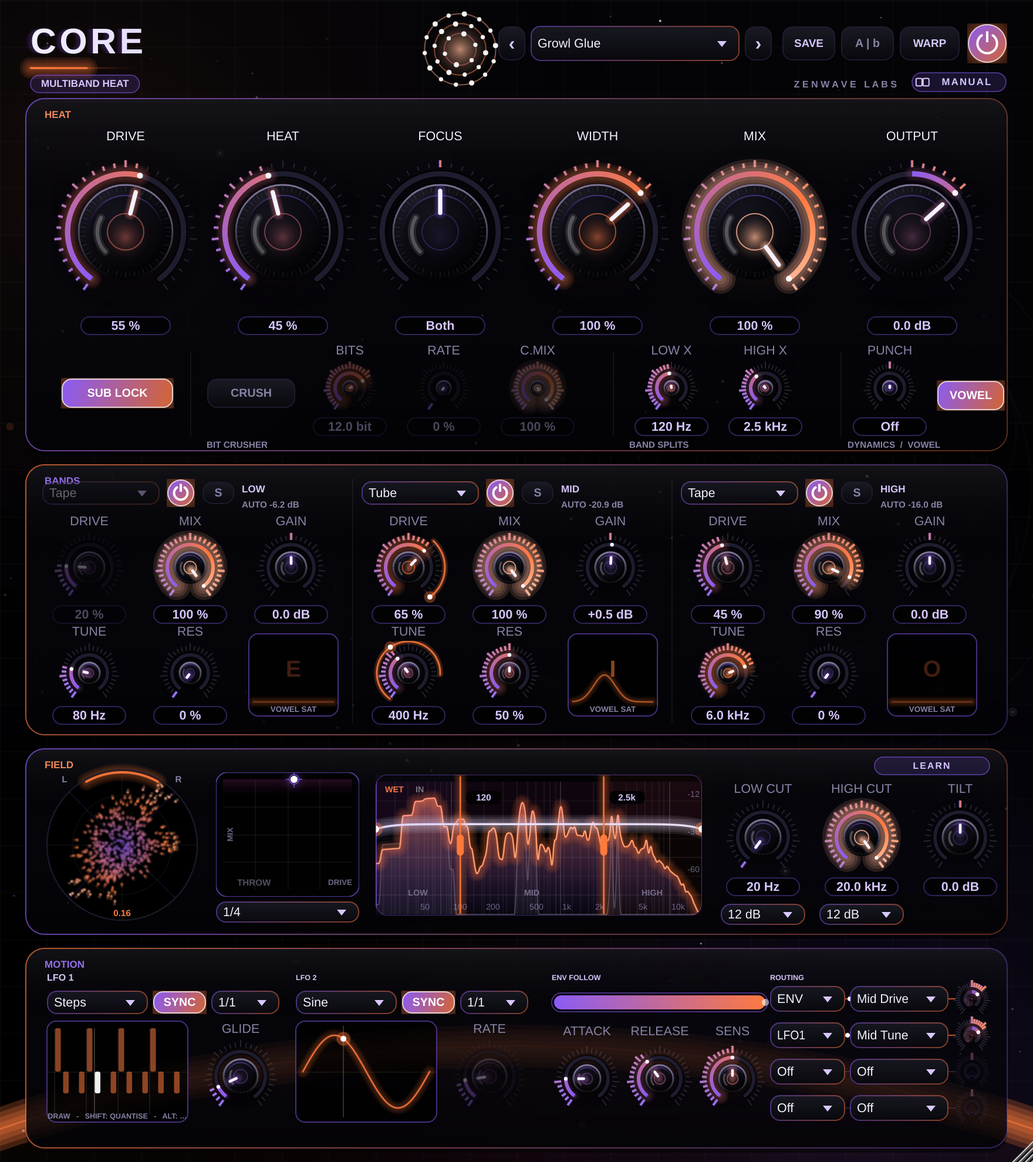
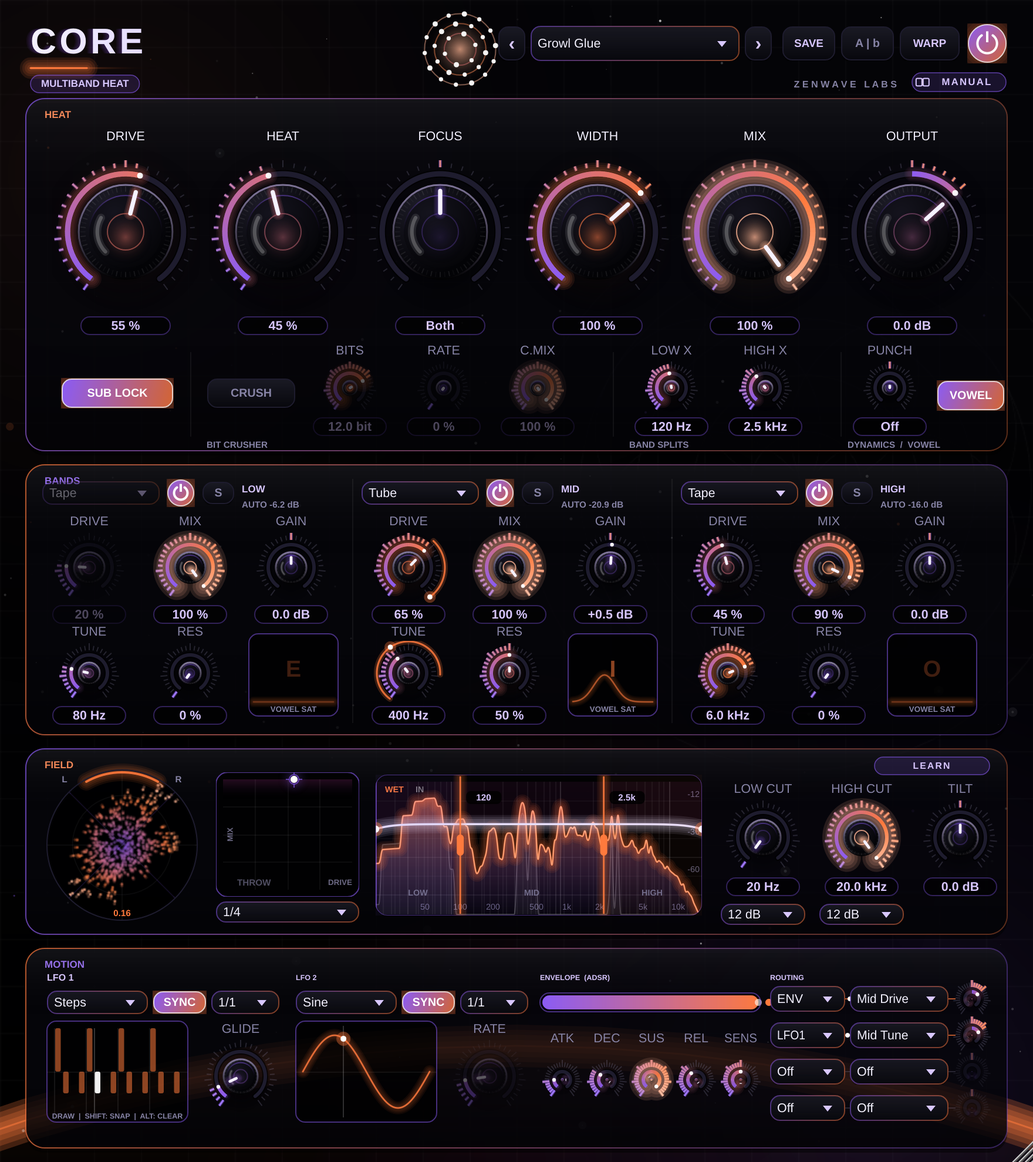
Independent step lanes per LFO; envelope becomes an input-triggered ADSR
- Each LFO now owns its 16-step lane and GLIDE (LFO 1 defaults to a 4-on-the-floor pattern,
  LFO 2 to a ramp) - set both to Steps and they play different patterns
- Envelope source: fast follower + SENS opens a gate; ATK -> DEC -> SUS while the input plays,
  REL when it stops; retriggers on new hits; gate indicator beside the bar. SUS 100 % = follower feel
- Saw LFOs de-clicked at the wrap (3 ms) - caught by Core QA with the new targets
- Manual + tooltips; QA pass on all three

Claude-Session: https://claude.ai/code/session_017QkTniK1NEuAZXzt6zeDH9

Changed region(s): [[0.5312, 0.8318, 0.75, 0.9551]]

diff --git a/libs/zenwave_ui/include/zenwave_ui/Modulation.h b/libs/zenwave_ui/include/zenwave_ui/Modulation.h
@@ -20,6 +20,8 @@ struct ModIDs
     static juce::String lfoDiv  (int i) { return "lfo" + juce::String(i + 1) + "div"; }
     static juce::String lfoRate (int i) { return "lfo" + juce::String(i + 1) + "rate"; }
     static constexpr auto envAttack  = "envattack";
+    static constexpr auto envDecay   = "envdecay";
+    static constexpr auto envSustain = "envsustain";
     static constexpr auto envRelease = "envrelease";
     static constexpr auto envSens    = "envsens";
     static juce::String slotSrc(int i) { return "mod" + juce::String(i + 1) + "src"; }
@@ -28,8 +30,8 @@ struct ModIDs
 
     static juce::StringArray shapeNames() { return { "Sine", "Triangle", "Saw Up", "Saw Down", "Square", "Random", "Drift", "Steps" }; }
     static constexpr int kSteps = 16;
-    static juce::String step(int i) { return "seqstep" + juce::String(i + 1); }
-    static constexpr auto seqGlide = "seqglide";
+    static juce::String step(int lfo, int i) { return "lfo" + juce::String(lfo + 1) + "step" + juce::String(i + 1); }
+    static juce::String glide(int lfo) { return "lfo" + juce::String(lfo + 1) + "glide"; }
     static juce::StringArray sourceNames() { return { "Off", "LFO1", "LFO2", "ENV" }; }
 };
 
@@ -53,15 +55,21 @@ inline void addModParams(std::vector<std::unique_ptr<juce::RangedAudioParameter>
     auto ms = [](float v, int) { return v < 100.0f ? juce::String(v, 1) + " ms" : juce::String(juce::roundToInt(v)) + " ms"; };
     params.push_back(std::make_unique<P>(juce::ParameterID{ ModIDs::envAttack, 1 }, "Env Attack", Rng{ 0.5f, 500.0f, 0.1f, 0.4f }, 8.0f, juce::AudioParameterFloatAttributes().withStringFromValueFunction(ms)));
     params.push_back(std::make_unique<P>(juce::ParameterID{ ModIDs::envRelease, 1 }, "Env Release", Rng{ 10.0f, 2000.0f, 0.1f, 0.4f }, 180.0f, juce::AudioParameterFloatAttributes().withStringFromValueFunction(ms)));
+    params.push_back(std::make_unique<P>(juce::ParameterID{ ModIDs::envDecay, 1 }, "Env Decay", Rng{ 5.0f, 2000.0f, 0.1f, 0.4f }, 120.0f, juce::AudioParameterFloatAttributes().withStringFromValueFunction(ms)));
+    params.push_back(std::make_unique<P>(juce::ParameterID{ ModIDs::envSustain, 1 }, "Env Sustain", Rng{ 0.0f, 1.0f, 0.001f }, 1.0f,
+        juce::AudioParameterFloatAttributes().withStringFromValueFunction([](float v, int) { return juce::String(juce::roundToInt(v * 100)) + " %"; })));
     params.push_back(std::make_unique<P>(juce::ParameterID{ ModIDs::envSens, 1 }, "Env Sensitivity", Rng{ 0.0f, 1.0f, 0.001f }, 0.5f,
         juce::AudioParameterFloatAttributes().withStringFromValueFunction([](float v, int) { return juce::String(juce::roundToInt(v * 100)) + " %"; })));
-    // 16-step lane shared by any LFO set to "Steps" (one cycle = the LFO's division)
-    for (int i = 0; i < ModIDs::kSteps; ++i)
-        params.push_back(std::make_unique<P>(juce::ParameterID{ ModIDs::step(i), 1 }, "Step " + juce::String(i + 1), Rng{ -1.0f, 1.0f, 0.001f },
-            (i % 4 == 0) ? 1.0f : (i % 2 == 0 ? 0.0f : -0.5f),
-            juce::AudioParameterFloatAttributes().withStringFromValueFunction([](float v, int) { return (v > 0 ? "+" : "") + juce::String(juce::roundToInt(v * 100)) + " %"; })));
-    params.push_back(std::make_unique<P>(juce::ParameterID{ ModIDs::seqGlide, 1 }, "Step Glide", Rng{ 0.0f, 1.0f, 0.001f }, 0.1f,
-        juce::AudioParameterFloatAttributes().withStringFromValueFunction([](float v, int) { return juce::String(juce::roundToInt(v * 100)) + " %"; })));
+    // Each LFO has its own 16-step lane for the "Steps" shape (one pass = the LFO's division)
+    for (int l = 0; l < 2; ++l)
+    {
+        for (int i = 0; i < ModIDs::kSteps; ++i)
+            params.push_back(std::make_unique<P>(juce::ParameterID{ ModIDs::step(l, i), 1 }, "LFO " + juce::String(l + 1) + " Step " + juce::String(i + 1), Rng{ -1.0f, 1.0f, 0.001f },
+                l == 0 ? ((i % 4 == 0) ? 1.0f : (i % 2 == 0 ? 0.0f : -0.5f)) : (1.0f - 2.0f * float(i) / 15.0f),
+                juce::AudioParameterFloatAttributes().withStringFromValueFunction([](float v, int) { return (v > 0 ? "+" : "") + juce::String(juce::roundToInt(v * 100)) + " %"; })));
+        params.push_back(std::make_unique<P>(juce::ParameterID{ ModIDs::glide(l), 1 }, "LFO " + juce::String(l + 1) + " Glide", Rng{ 0.0f, 1.0f, 0.001f }, 0.1f,
+            juce::AudioParameterFloatAttributes().withStringFromValueFunction([](float v, int) { return juce::String(juce::roundToInt(v * 100)) + " %"; })));
+    }
     for (int i = 0; i < ModIDs::kSlots; ++i)
     {
         const auto n = "Mod " + juce::String(i + 1) + " ";
@@ -77,7 +85,7 @@ inline void resetModParams(juce::AudioProcessorValueTreeState& apvts)
 {
     for (auto* p : apvts.processor.getParameters())
         if (auto* rp = dynamic_cast<juce::RangedAudioParameter*>(p))
-            if (rp->paramID.startsWith("lfo") || rp->paramID.startsWith("env") || rp->paramID.startsWith("mod") || rp->paramID.startsWith("seq"))
+            if (rp->paramID.startsWith("lfo") || rp->paramID.startsWith("env") || rp->paramID.startsWith("mod"))
             { rp->beginChangeGesture(); rp->setValueNotifyingHost(rp->getDefaultValue()); rp->endChangeGesture(); }
 }
 // Set one slot of the matrix (used by factory presets that ship with motion)
@@ -108,9 +116,14 @@ public:
             lfo[i].div   = apvts.getRawParameterValue(ModIDs::lfoDiv(i));
             lfo[i].rate  = apvts.getRawParameterValue(ModIDs::lfoRate(i));
         }
-        for (int i = 0; i < ModIDs::kSteps; ++i) stepP[i] = apvts.getRawParameterValue(ModIDs::step(i));
-        glideP = apvts.getRawParameterValue(ModIDs::seqGlide);
+        for (int l = 0; l < 2; ++l)
+        {
+            for (int i = 0; i < ModIDs::kSteps; ++i) lfo[l].stepP[i] = apvts.getRawParameterValue(ModIDs::step(l, i));
+            lfo[l].glideP = apvts.getRawParameterValue(ModIDs::glide(l));
+        }
         envAttack = apvts.getRawParameterValue(ModIDs::envAttack);
+        envDecay = apvts.getRawParameterValue(ModIDs::envDecay);
+        envSustain = apvts.getRawParameterValue(ModIDs::envSustain);
         envRelease = apvts.getRawParameterValue(ModIDs::envRelease);
         envSens = apvts.getRawParameterValue(ModIDs::envSens);
         for (int i = 0; i < ModIDs::kSlots; ++i)
@@ -121,22 +134,37 @@ public:
         }
     }
 
-    void prepare(double sampleRate) { sr = sampleRate; env = 0.0f; for (auto& l : lfo) { l.phase = 0.0; l.rnd = 0.0f; l.rndTarget = 0.0f; l.rndPrev = 0.0f; } rng.setSeed(1234); }
+    void prepare(double sampleRate) { sr = sampleRate; env = 0.0f; adsr = 0.0f; gate = false; stage = 0; for (auto& l : lfo) { l.phase = 0.0; l.rnd = 0.0f; l.rndTarget = 0.0f; l.rndPrev = 0.0f; } rng.setSeed(1234); }
 
     // Advance sources over one sub-block of input. ppq/playing come from the host transport.
     void process(const float* inL, const float* inR, int n, double bpm, double ppq, bool playing)
     {
-        // envelope follower (peak, with attack/release), scaled by sensitivity
+        // Input-triggered ADSR: a fast peak follower (scaled by SENS) opens a gate; the envelope then runs
+        // Attack -> Decay -> Sustain while the gate is open and Release when it closes. Retriggers on new hits.
         {
+            const float fa = std::exp(-1.0f / (float(sr) * 0.001f)), fr = std::exp(-1.0f / (float(sr) * 0.040f));
+            const float gain = 1.0f + envSens->load() * envSens->load() * 40.0f;   // up to +32 dB
             const float atk = std::exp(-1.0f / (float(sr) * envAttack->load() * 0.001f));
+            const float dec = std::exp(-1.0f / (float(sr) * envDecay->load() * 0.001f));
             const float rel = std::exp(-1.0f / (float(sr) * envRelease->load() * 0.001f));
+            const float sus = envSustain->load();
             for (int i = 0; i < n; ++i)
             {
                 const float x = std::max(std::abs(inL[i]), std::abs(inR ? inR[i] : inL[i]));
-                env = x > env ? atk * env + (1.0f - atk) * x : rel * env + (1.0f - rel) * x;
+                env = x > env ? fa * env + (1.0f - fa) * x : fr * env + (1.0f - fr) * x;
+                const float lvl = std::min(1.0f, env * gain);
+                if (! gate && lvl > 0.18f) { gate = true; stage = 1; }
+                else if (gate && lvl < 0.07f) { gate = false; stage = 3; }
+                switch (stage)
+                {
+                    case 1: adsr = atk * adsr + (1.0f - atk) * 1.08f; if (adsr >= 1.0f) { adsr = 1.0f; stage = 2; } break;   // attack (slight overshoot target so it reaches 1)
+                    case 2: adsr = dec * adsr + (1.0f - dec) * sus; break;                                                   // decay -> sustain
+                    case 3: adsr = rel * adsr; if (adsr < 1e-4f) { adsr = 0.0f; stage = 0; } break;                         // release
+                    default: break;
+                }
             }
-            const float gain = 1.0f + envSens->load() * envSens->load() * 40.0f;   // up to +32 dB
-            src[3] = juce::jlimit(0.0f, 1.0f, env * gain);
+            src[3] = juce::jlimit(0.0f, 1.0f, adsr);
+            gateVis.store(gate);
         }
         // LFOs
         for (int i = 0; i < 2; ++i)
@@ -162,14 +190,14 @@ public:
                 case 3: v = 1.0f - 2.0f * ph; break;
                 case 4: v = ph < 0.5f ? 1.0f : -1.0f; break;
                 case 5: v = l.rndTarget; break;                                                      // sample & hold
-                case 7: { const int st = juce::jlimit(0, ModIDs::kSteps - 1, int(ph * ModIDs::kSteps)); v = stepP[st]->load(); l.stepVis.store(st); } break;   // step lane
+                case 7: { const int st = juce::jlimit(0, ModIDs::kSteps - 1, int(ph * ModIDs::kSteps)); v = l.stepP[st]->load(); l.stepVis.store(st); } break;   // this LFO's step lane
                 default: { const float t = ph * ph * (3.0f - 2.0f * ph); v = l.rndPrev + (l.rndTarget - l.rndPrev) * t; } break;  // smooth drift
             }
             // de-click square / S&H with a one-pole (≈ 3 ms); steps glide by a fraction of a step
             const int shp = int(l.shape->load());
             float k = std::exp(-float(n) / (float(sr) * 0.003f));
-            if (shp == 7) { const float g = glideP->load(); const double stepSec = cycleSec / ModIDs::kSteps; k = std::exp(-float(n) / float(sr * std::max(0.002, stepSec * (0.03 + g * 0.9)))); }
-            l.smooth = (shp == 4 || shp == 5 || shp == 7) ? k * l.smooth + (1.0f - k) * v : v;
+            if (shp == 7) { const float g = l.glideP->load(); const double stepSec = cycleSec / ModIDs::kSteps; k = std::exp(-float(n) / float(sr * std::max(0.002, stepSec * (0.03 + g * 0.9)))); }
+            l.smooth = (shp >= 2 && shp != 6) ? k * l.smooth + (1.0f - k) * v : v;   // saws, square, S&H, steps: de-clicked
             src[1 + i] = l.smooth;
             l.phaseVis.store(ph);
         }
@@ -228,11 +256,14 @@ public:
     int   lfoStep(int i) const { return lfo[i].stepVis.load(); }
 
 private:
-    struct Lfo { std::atomic<float>* shape{}, * sync{}, * div{}, * rate{}; double phase = 0; float rnd = 0, rndTarget = 0, rndPrev = 0, smooth = 0; int cycleCount = 0; std::atomic<float> phaseVis { 0.0f }; std::atomic<int> stepVis { 0 }; };
+    struct Lfo { std::atomic<float>* shape{}, * sync{}, * div{}, * rate{}; std::atomic<float>* stepP[ModIDs::kSteps] {}; std::atomic<float>* glideP{}; double phase = 0; float rnd = 0, rndTarget = 0, rndPrev = 0, smooth = 0; int cycleCount = 0; std::atomic<float> phaseVis { 0.0f }; std::atomic<int> stepVis { 0 }; };
     struct Slot { std::atomic<float>* src{}, * dst{}, * amt{}; };
     Lfo lfo[2]; Slot slot[ModIDs::kSlots];
-    std::atomic<float>* envAttack{}, * envRelease{}, * envSens{};
-    std::atomic<float>* stepP[ModIDs::kSteps] {}; std::atomic<float>* glideP{};
+    std::atomic<float>* envAttack{}, * envRelease{}, * envSens{}, * envDecay{}, * envSustain{};
+    float adsr = 0.0f; bool gate = false; int stage = 0;
+public:
+    std::atomic<bool> gateVis { false };
+private:
     std::array<juce::RangedAudioParameter*, kMaxTargets> target {};
     std::array<float, kMaxTargets> offset {}, plain {};
     float src[4] = { 0, 0, 0, 0 };

diff --git a/libs/zenwave_ui/include/zenwave_ui/ModPanel.h b/libs/zenwave_ui/include/zenwave_ui/ModPanel.h
@@ -13,9 +13,12 @@ class ModPanel : public juce::Component
 public:
     ModPanel(juce::AudioProcessorValueTreeState& apvts, ModMatrix& m, LookAndFeel& l) : mod(m), lnf(l), state(apvts)
     {
-        for (int i = 0; i < ModIDs::kSteps; ++i) stepParam[i] = apvts.getParameter(ModIDs::step(i));
-        glide.init(*this, apvts, ModIDs::seqGlide, "GLIDE", false, false);
-        glide.slider.setTooltip("Step glide: how much each step slides into the next (0 = hard steps, 100 % = fully smoothed)");
+        for (int l = 0; l < 2; ++l)
+        {
+            for (int i = 0; i < ModIDs::kSteps; ++i) lfo[l].stepParam[i] = apvts.getParameter(ModIDs::step(l, i));
+            lfo[l].glide.init(*this, apvts, ModIDs::glide(l).toRawUTF8(), "GLIDE", false, false);
+            lfo[l].glide.slider.setTooltip("Step glide: how much each step slides into the next (0 = hard steps, 100 % = fully smoothed)");
+        }
         for (int i = 0; i < 2; ++i)
         {
             auto& L = lfo[i];
@@ -27,8 +30,10 @@ public:
             L.divAttach = std::make_unique<juce::AudioProcessorValueTreeState::ComboBoxAttachment>(apvts, ModIDs::lfoDiv(i), L.div);
             L.rate.init(*this, apvts, ModIDs::lfoRate(i).toRawUTF8(), "RATE", false, false);
         }
-        attack.init(*this, apvts, ModIDs::envAttack, "ATTACK", false, false);
-        release.init(*this, apvts, ModIDs::envRelease, "RELEASE", false, false);
+        attack.init(*this, apvts, ModIDs::envAttack, "ATK", false, false);
+        decay.init(*this, apvts, ModIDs::envDecay, "DEC", false, false);
+        sustain.init(*this, apvts, ModIDs::envSustain, "SUS", false, false);
+        release.init(*this, apvts, ModIDs::envRelease, "REL", false, false);
         sens.init(*this, apvts, ModIDs::envSens, "SENS", false, false);
         for (int i = 0; i < ModIDs::kSlots; ++i)
         {
@@ -43,14 +48,16 @@ public:
         }
         for (int i = 0; i < 2; ++i)
         {
-            lfo[i].shape.setTooltip("LFO shape: Sine, Triangle, Saw Up, Saw Down, Square, Random (stepped), Drift (smooth random), Steps (draw a 16-step lane in the display; one lane shared by both LFOs)");
+            lfo[i].shape.setTooltip("LFO shape: Sine, Triangle, Saw Up, Saw Down, Square, Random (stepped), Drift (smooth random), Steps (draw this LFO's own 16-step lane in the display)");
             lfo[i].sync.setTooltip("Sync: one LFO cycle per division, phase-locked to the host bar");
             lfo[i].div.setTooltip("LFO division when SYNC is on");
             lfo[i].rate.slider.setTooltip("LFO rate in Hz when SYNC is off (0.02-20 Hz)");
         }
-        attack.slider.setTooltip("Envelope attack: how fast the follower rises on a hit");
-        release.slider.setTooltip("Envelope release: how fast it falls after the hit");
-        sens.slider.setTooltip("Envelope sensitivity: how hard a normal-level signal pushes the follower (watch the bar)");
+        attack.slider.setTooltip("Attack: time to reach full after the input opens the gate");
+        decay.slider.setTooltip("Decay: time to fall from full to the Sustain level while the input keeps playing");
+        sustain.slider.setTooltip("Sustain: the level held while the input keeps playing (100 % = classic follower feel)");
+        release.slider.setTooltip("Release: time to fall to zero after the input stops");
+        sens.slider.setTooltip("Sensitivity: input gain into the gate - turn up until quiet parts trigger, down until only hits do (the bar shows the envelope, the dot shows the gate)");
         for (auto& S : slot)
         {
             S.src.setTooltip("Modulation source for this slot");
@@ -62,7 +69,7 @@ public:
 
     // Step lane editing: drag inside an LFO scope whose shape is "Steps"
     int scopeAt(juce::Point<float> p) const { for (int i = 0; i < 2; ++i) if (lfo[i].scope.contains(p) && lfo[i].shape.getSelectedId() == 8) return i; return -1; }
-    void mouseDown(const juce::MouseEvent& e) override { editing = scopeAt(e.position); if (editing >= 0) { for (auto* p : stepParam) p->beginChangeGesture(); mouseDrag(e); } }
+    void mouseDown(const juce::MouseEvent& e) override { editing = scopeAt(e.position); if (editing >= 0) { for (auto* p : lfo[editing].stepParam) p->beginChangeGesture(); mouseDrag(e); } }
     void mouseDrag(const juce::MouseEvent& e) override
     {
         if (editing < 0) return;
@@ -71,17 +78,18 @@ public:
         float v = juce::jlimit(-1.0f, 1.0f, 1.0f - 2.0f * (e.position.y - r.getY()) / r.getHeight());
         if (e.mods.isShiftDown()) v = std::round(v * 4.0f) / 4.0f;             // shift = quantise to quarters
         if (e.mods.isAltDown()) v = 0.0f;                                        // alt = clear
-        stepParam[st]->setValueNotifyingHost(stepParam[st]->convertTo0to1(v));
+        auto* sp = lfo[editing].stepParam[st];
+        sp->setValueNotifyingHost(sp->convertTo0to1(v));
         repaint();
     }
-    void mouseUp(const juce::MouseEvent&) override { if (editing >= 0) for (auto* p : stepParam) p->endChangeGesture(); editing = -1; }
+    void mouseUp(const juce::MouseEvent&) override { if (editing >= 0) for (auto* p : lfo[editing].stepParam) p->endChangeGesture(); editing = -1; }
 
     // scale = editor width / 880
     void layoutScaled(float s)
     {
         sc = s;
         auto S = [s](float v) { return juce::roundToInt(v * s); };
-        glide.layout(S(18 + 132), S(76), S(66), S(66), S(11));   // sits where LFO 1's RATE sits; shown only in Steps mode
+        for (int i = 0; i < 2; ++i) lfo[i].glide.layout(S(18 + i * 212 + 132), S(76), S(66), S(66), S(11));   // where RATE sits; shown in Steps mode
         for (int i = 0; i < 2; ++i)
         {
             auto& L = lfo[i]; const int x0 = S(18 + i * 212);
@@ -91,11 +99,10 @@ public:
             L.rate.layout(x0 + S(132), S(76), S(66), S(66), S(11));
             L.scope = juce::Rectangle<float>(float(x0), S(62.0f), S(120.0f), S(86.0f));
         }
-        const int ex = S(448);
-        attack.layout (ex,          S(78), S(60), S(66), S(11));
-        release.layout(ex + S(62),  S(78), S(60), S(66), S(11));
-        sens.layout   (ex + S(124), S(78), S(60), S(66), S(11));
-        envMeter = juce::Rectangle<float>(float(ex), S(38.0f), S(184.0f), S(16.0f));
+        const int ex = S(438);
+        Knob* envK[5] = { &attack, &decay, &sustain, &release, &sens };
+        for (int k = 0; k < 5; ++k) envK[k]->layout(ex + S(k * 38), S(84), S(38), S(56), S(11));
+        envMeter = juce::Rectangle<float>(float(ex), S(38.0f), S(188.0f), S(16.0f));
         for (int i = 0; i < ModIDs::kSlots; ++i)
         {
             auto& Sl = slot[i]; const int y = S(32 + i * 31);
@@ -115,9 +122,9 @@ public:
             anySteps |= steps;
             lfo[i].div.setEnabled(sync); lfo[i].div.setAlpha(sync ? 1.0f : 0.4f);
             lfo[i].rate.slider.setAlpha(sync ? 0.35f : 1.0f);
-            if (i == 0) { lfo[0].rate.slider.setVisible(! steps); lfo[0].rate.label.setVisible(! steps); }
+            lfo[i].rate.slider.setVisible(! steps); lfo[i].rate.label.setVisible(! steps);
+            lfo[i].glide.slider.setVisible(steps); lfo[i].glide.label.setVisible(steps);
         }
-        glide.slider.setVisible(lfo[0].shape.getSelectedId() == 8); glide.label.setVisible(lfo[0].shape.getSelectedId() == 8);
         juce::ignoreUnused(anySteps);
         for (auto& Sl : slot) { const bool on = Sl.src.getSelectedId() > 1 && Sl.dst.getSelectedId() > 1; Sl.amt.slider.setAlpha(on ? 1.0f : 0.4f); }
         repaint();
@@ -133,7 +140,7 @@ public:
             g.setColour(lnf.accentHi); g.drawText("LFO " + juce::String(i + 1), L.scope.withY(18.0f * s).withHeight(14.0f * s), juce::Justification::centredLeft);
             drawLfoScope(g, L.scope, i, s);
         }
-        g.setColour(lnf.accentHi); g.drawText("ENV FOLLOW", envMeter.withY(18.0f * s).withHeight(14.0f * s), juce::Justification::centredLeft);
+        g.setColour(lnf.accentHi); g.drawText("ENVELOPE  (ADSR)", envMeter.withY(18.0f * s).withHeight(14.0f * s), juce::Justification::centredLeft);
         drawEnvMeter(g, envMeter, s);
         g.setColour(lnf.accentHi); g.drawText("ROUTING", juce::Rectangle<float>(634.0f * s, 18.0f * s, 150.0f * s, 14.0f * s), juce::Justification::centredLeft);
         // slot connector lines: src → dst → amount, lit when active
@@ -170,7 +177,7 @@ private:
             const int cur = mod.lfoStep(i);
             for (int st = 0; st < ModIDs::kSteps; ++st)
             {
-                const float v = stepParam[st]->convertFrom0to1(stepParam[st]->getValue());
+                const float v = lfo[i].stepParam[st]->convertFrom0to1(lfo[i].stepParam[st]->getValue());
                 const float x = in.getX() + st * w;
                 const float y0 = in.getCentreY(), y1 = in.getCentreY() - v * in.getHeight() * 0.5f;
                 auto bar = juce::Rectangle<float>(x + 1.0f, juce::jmin(y0, y1), w - 2.0f, std::abs(y1 - y0));
@@ -181,7 +188,7 @@ private:
             g.setColour(juce::Colours::white.withAlpha(0.2f)); g.drawVerticalLine(int(in.getX() + in.getWidth() * ph), in.getY(), in.getBottom());
             g.setColour(lnf.accent.withAlpha(0.5f)); g.drawRoundedRectangle(r, 8.0f * s, 1.0f);
             g.setFont(juce::Font(juce::FontOptions(7.0f * s, juce::Font::bold))); g.setColour(Palette::dim);
-            g.drawText("DRAW   -   SHIFT: QUANTISE   -   ALT: CLEAR", r.withTrimmedTop(r.getHeight() - 10.0f * s), juce::Justification::centred);
+            g.drawText("DRAW  |  SHIFT: SNAP  |  ALT: CLEAR", r.withTrimmedTop(r.getHeight() - 10.0f * s), juce::Justification::centred);
             return;
         }
         juce::Path p;
@@ -226,18 +233,19 @@ private:
         g.setGradientFill(juce::ColourGradient(lnf.accent, r.getX(), r.getY(), lnf.accent2, r.getRight(), r.getY(), false));
         g.fillRoundedRectangle(fill, fill.getHeight() * 0.5f);
         g.setColour(juce::Colours::white.withAlpha(0.6f)); g.fillEllipse(fill.getRight() - 3.0f * s, r.getCentreY() - 3.0f * s, 6.0f * s, 6.0f * s);
+        // gate indicator
+        g.setColour(mod.gateVis.load() ? lnf.accent2 : Palette::dim.withAlpha(0.4f)); g.fillEllipse(r.getRight() + 4.0f * s, r.getCentreY() - 3.0f * s, 6.0f * s, 6.0f * s);
         g.setColour(lnf.accent.withAlpha(0.5f)); g.drawRoundedRectangle(r, r.getHeight() * 0.5f, 1.0f);
     }
 
-    struct LfoUI { juce::ComboBox shape, div; juce::ToggleButton sync { "SYNC" }; Knob rate; juce::Rectangle<float> scope;
+    struct LfoUI { juce::ComboBox shape, div; juce::ToggleButton sync { "SYNC" }; Knob rate, glide; juce::Rectangle<float> scope; juce::RangedAudioParameter* stepParam[ModIDs::kSteps] {};
                    std::unique_ptr<juce::AudioProcessorValueTreeState::ComboBoxAttachment> shapeAttach, divAttach;
                    std::unique_ptr<juce::AudioProcessorValueTreeState::ButtonAttachment> syncAttach; };
     struct SlotUI { juce::ComboBox src, dst; Knob amt; std::unique_ptr<juce::AudioProcessorValueTreeState::ComboBoxAttachment> srcAttach, dstAttach; };
     LfoUI lfo[2]; SlotUI slot[ModIDs::kSlots];
-    Knob attack, release, sens, glide;
+    Knob attack, decay, sustain, release, sens;
     juce::Rectangle<float> envMeter;
     ModMatrix& mod; LookAndFeel& lnf; juce::AudioProcessorValueTreeState& state;
-    juce::RangedAudioParameter* stepParam[ModIDs::kSteps] {};
     int editing = -1; float sc = 1.0f;
 };
 

diff --git a/libs/zenwave_ui/include/zenwave_ui/Manual.h b/libs/zenwave_ui/include/zenwave_ui/Manual.h
@@ -27,8 +27,8 @@ inline ManualSection motionSection()
 {
     return { "MOTION", "Two LFOs and an envelope follower you can route to almost any knob. Modulated knobs show a range arc and a moving cyan dot.",
         { { "LFO 1 / LFO 2", "Shape: Sine, Triangle, Saw Up, Saw Down, Square, Random (stepped) and Drift (smooth random). SYNC locks the rate to the host tempo and phase - one cycle per division, lined up to the bar. Unsynced, RATE sets it in Hz (0.02-20)." },
-          { "Steps (LFO shape)", "A 16-step lane you draw straight into the LFO display: drag to set each step (bipolar), Shift = quantise to quarters, Alt = clear. One pass = the LFO's division (1/1 = a step per 1/16). GLIDE slides steps into each other. Both LFOs can read the same lane at different rates." },
-          { "ENV FOLLOW", "Tracks the loudness of the input. ATTACK = how fast it rises, RELEASE = how fast it falls, SENS = how hard a normal signal pushes it. The bar shows the live value. Use it to make the effect react to your playing - e.g. more decay on hits, less mix when the vocal is busy." },
+          { "Steps (LFO shape)", "A 16-step lane you draw straight into the LFO display: drag to set each step (bipolar), Shift = quantise to quarters, Alt = clear. One pass = the LFO's division (1/1 = a step per 1/16). GLIDE slides steps into each other. Each LFO has its own lane, so LFO 1 can walk a vowel while LFO 2 chops the mix." },
+          { "ENVELOPE (ADSR)", "An envelope triggered by the input. SENS sets how loud the input has to be to open the gate (the dot lights when it's open); then ATK rises to full, DEC falls to the SUS level while the sound keeps playing, and REL fades out when it stops. SUS 100 % with a short DEC feels like a classic follower; SUS 0 % turns every hit into a pluck-shaped sweep. The bar shows the live envelope." },
           { "ROUTING", "Four slots: source -> target -> amount. The amount knob is bipolar: turn left for inverted modulation. LFOs swing +/- around the knob's position; ENV pushes it one way. Several slots can hit the same target - they add." },
           { "Tip", "Synced LFO on TIME (Drift) gives octave-locked pitch wobbles; Drift LFO on WIDTH or COLOR gives slow, living tails nobody can quite place." } } };
 }
